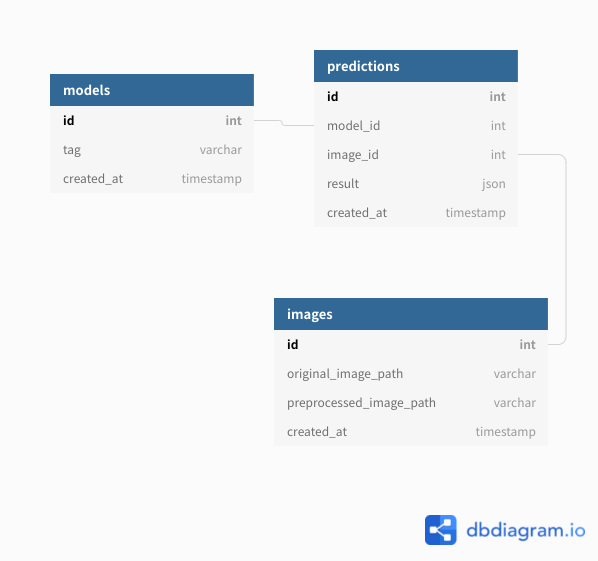
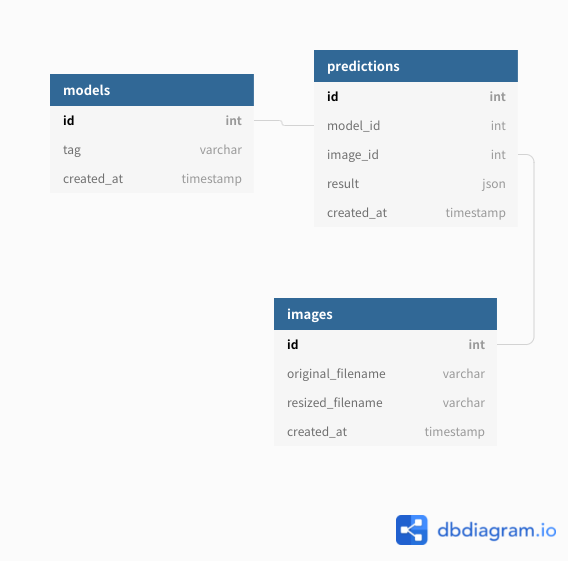
Fix data model

diff --git a/nginx/html/main.js b/nginx/html/main.js
@@ -104,11 +104,11 @@ async function loadHistoryBody(models) {
       const tr = document.createElement('tr')
       tableBody.appendChild(tr)
 
-      const h = history.filter((h) => h.image_id == imageId)[0]
+      const h = history.filter((h) => h.imageId == imageId)[0]
 
       // 手書き画像
       const originalImage = document.createElement('img')
-      originalImage.src = h.original_image_path
+      originalImage.src = h.originalFilename
       originalImage.height = IMAGE_SIZE
       const tdOriginalImage = document.createElement('td')
       tdOriginalImage.appendChild(originalImage)
@@ -116,7 +116,7 @@ async function loadHistoryBody(models) {
 
       // リサイズ後
       const resizedImage = document.createElement('img')
-      resizedImage.src = h.preprocessed_image_path
+      resizedImage.src = h.resizedFilename
       resizedImage.height = IMAGE_SIZE
       const tdResizedImage = document.createElement('td')
       tdResizedImage.appendChild(resizedImage)

diff --git a/nginx/html/requesters.js b/nginx/html/requesters.js
@@ -31,15 +31,15 @@ export async function getHistory(models) {
   history.forEach((h) => {
     // 値を計算
     models.forEach((m) => {
-      const imageId = h.image_id
-      const modelTag = h.model_tag
+      const imageId = h.imageId
+      const modelTag = h.modelTag
 
       if (!values[imageId]) {
         values[imageId] = {}
       }
 
       const result = JSON.parse(h.result)
-      if (!values[imageId][modelTag]) {
+      if (!values[imageId][modelTag] && result != null) {
         values[imageId][modelTag] = calculateHighProbabilityValue(result)
       }
     })

diff --git a/fastapi/app/dao/image_dao.py b/fastapi/app/dao/image_dao.py
@@ -4,7 +4,7 @@ from app.dao.dao_utils import MySQLConnection
 class ImageDao:
     def find_all(self):
         with MySQLConnection() as db:
-            sql = 'select id, original_image_path, preprocessed_image_path, created_at from images order by id'
+            sql = 'select id, original_filename, resized_filename, created_at from images order by id'
             db.cur.execute(sql)
             rows = db.cur.fetchall()
 
@@ -12,17 +12,17 @@ class ImageDao:
             for row in rows:
                 image = {
                     'id': row[0],
-                    'original_image_path': row[1],
-                    'preprocessed_image_path': row[2],
-                    'created_at': row[3]
+                    'originalFilename': row[1],
+                    'resizedFilename': row[2],
+                    'createdAt': row[3]
                 }
                 images.append(image)
 
             return images
 
-    def insert(self, original_image_path: str, preprocessed_image_path: str) -> int:
+    def insert(self, original_filename: str, resized_filename: str) -> int:
         with MySQLConnection() as db:
-            sql = 'insert into images (original_image_path, preprocessed_image_path) values (%s, %s)'
-            db.cur.execute(sql, (original_image_path, preprocessed_image_path))
+            sql = 'insert into images (original_filename, resized_filename) values (%s, %s)'
+            db.cur.execute(sql, (original_filename, resized_filename))
             db.con.commit()
             return db.cur.lastrowid

diff --git a/fastapi/app/dao/model_dao.py b/fastapi/app/dao/model_dao.py
@@ -7,17 +7,7 @@ class ModelDao:
             sql = 'select id, tag, created_at from models order by id'
             db.cur.execute(sql)
             rows = db.cur.fetchall()
-
-            models = []
-            for row in rows:
-                model = {
-                    'id': row[0],
-                    'tag': row[1],
-                    'created_at': row[2]
-                }
-                models.append(model)
-
-            return models
+            return [self._row2dict(row) for row in rows]
 
     def find_by_tag(self, tag: str):
         with MySQLConnection() as db:
@@ -28,17 +18,18 @@ class ModelDao:
             if len(rows) == 0:
                 return None
 
-            row = rows[0]
-            model = {
-                'id': row[0],
-                'tag': row[1],
-                'created_at': row[2]
-            }
-            return model
+            return self._row2dict(rows[0])
 
-    def insert(self, tag: str) -> None:
+    def _row2dict(self, row):
+        return {
+            'id': row[0],
+            'tag': row[1],
+            'createdAt': row[2]
+        }
+
+    def insert_if_not_exist(self, tag: str) -> None:
         with MySQLConnection() as db:
-            sql = 'insert into models (tag) values (%s)'
+            sql = 'insert ignore into models (tag) values (%s)'
             db.cur.execute(sql, (tag,))
             db.con.commit()
             return db.cur.lastrowid

diff --git a/fastapi/app/dao/prediction_dao.py b/fastapi/app/dao/prediction_dao.py
@@ -10,12 +10,12 @@ class PredictionDao:
                 select
                     i.id,
                     m.tag,
-                    i.original_image_path,
-                    i.preprocessed_image_path,
+                    i.original_filename,
+                    i.resized_filename,
                     p.result
                 from images i
                 left join predictions p on i.id = p.image_id
-                inner join models m on m.id = p.model_id
+                left join models m on m.id = p.model_id
                 order by i.id desc
                 '''.strip()
             db.cur.execute(sql)
@@ -24,10 +24,10 @@ class PredictionDao:
             predictions = []
             for row in rows:
                 prediction = {
-                    'image_id': row[0],
-                    'model_tag': row[1],
-                    'original_image_path': row[2],
-                    'preprocessed_image_path': row[3],
+                    'imageId': row[0],
+                    'modelTag': row[1],
+                    'originalFilename': row[2],
+                    'resizedFilename': row[3],
                     'result': row[4]
                 }
                 predictions.append(prediction)

diff --git a/fastapi/app/main.py b/fastapi/app/main.py
@@ -105,12 +105,9 @@ async def post_predict(image: UploadFile = File(...)):
 
     # モデルが DB に保存されていなければ保存する
     tag = get_model_tag()
+    ModelDao().insert_if_not_exist(tag)
     model = ModelDao().find_by_tag(tag)
-    log_info(f"model = {model}")
-    if model == None:
-        model_id = ModelDao().insert(tag)
-    else:
-        model_id = model['id']
+    model_id = model['id']
     log_info(f"model_id = {model_id}")
 
     # 推論結果を保存
@@ -126,6 +123,6 @@ async def post_predict():
 
     images = ImageDao().find_all()
     for image in images:
-        resized = Image.open(image['preprocessed_image_path'])
+        resized = Image.open(image['resizedFilename'])
         result = predict(resized)
         PredictionDao().insert(model['id'], image['id'], result)
